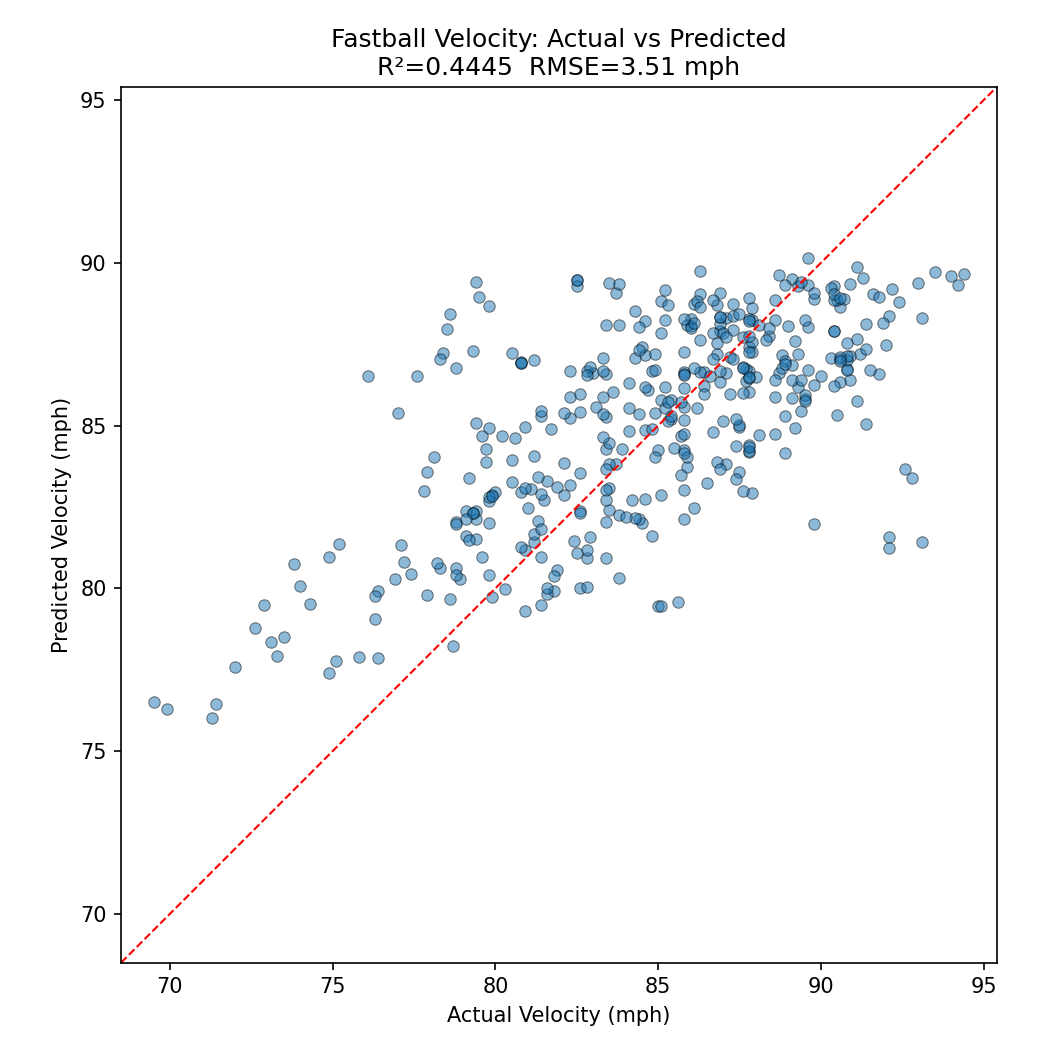
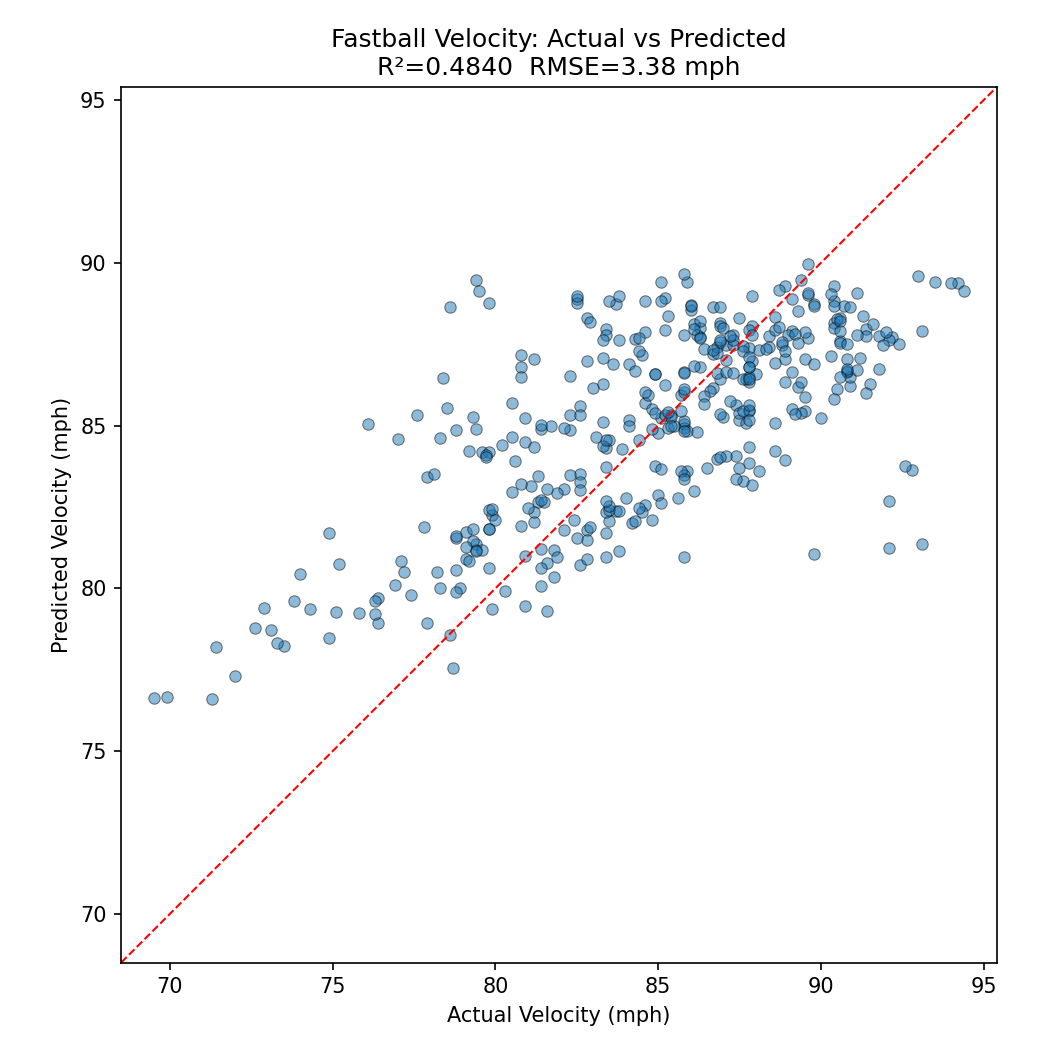
Early stopping, stronger regularization, kinetic chain feature engineering
Added 7 engineered features (energy transfer ratios, GRF asymmetry, moment
ratio). Tuned XGB: LR=0.03, 1000 trees w/ early stop at 50, stronger L1/L2.

Result: {"status":"keep","r2":0.484003,"rmse":3.384725}

diff --git a/train.py b/train.py
@@ -20,15 +20,16 @@ N_FOLDS = 5
 
 # --- Config ---
 XGB_PARAMS = {
-    "n_estimators": 500,
-    "max_depth": 5,
-    "learning_rate": 0.05,
-    "subsample": 0.8,
-    "colsample_bytree": 0.8,
-    "min_child_weight": 3,
-    "reg_alpha": 0.1,
-    "reg_lambda": 1.0,
+    "n_estimators": 1000,
+    "max_depth": 4,
+    "learning_rate": 0.03,
+    "subsample": 0.7,
+    "colsample_bytree": 0.7,
+    "min_child_weight": 5,
+    "reg_alpha": 0.5,
+    "reg_lambda": 2.0,
     "random_state": SEED,
+    "early_stopping_rounds": 50,
 }
 
 DROP_COLS = ["session_pitch", "session", "pitch_type", "pitch_speed_mph"]
@@ -44,6 +45,22 @@ def load_data():
     groups = df[GROUP_COL]
     y = df[TARGET].values
     X = df.drop(columns=DROP_COLS)
+
+    # Feature engineering: kinetic chain ratios
+    eps = 1e-6
+    X["thorax_to_elbow_transfer_ratio"] = X["thorax_distal_transfer_fp_br"] / (X["elbow_transfer_fp_br"] + eps)
+    X["shoulder_to_elbow_transfer_ratio"] = X["shoulder_transfer_fp_br"] / (X["elbow_transfer_fp_br"] + eps)
+    X["pelvis_to_thorax_transfer_ratio"] = X["pelvis_lumbar_transfer_fp_br"] / (X["thorax_distal_transfer_fp_br"] + eps)
+    # Rotational velocity ratios
+    X["torso_to_pelvis_rot_ratio"] = X["max_torso_rotational_velo"] / (X["max_pelvis_rotational_velo"] + eps)
+    # Total energy transfer (kinetic chain sum)
+    X["total_energy_transfer"] = (X["shoulder_transfer_fp_br"] + X["elbow_transfer_fp_br"] +
+                                   X["thorax_distal_transfer_fp_br"] + X["pelvis_lumbar_transfer_fp_br"])
+    # GRF asymmetry
+    X["grf_lead_rear_ratio"] = X["lead_grf_mag_max"] / (X["rear_grf_mag_max"] + eps)
+    # Shoulder-elbow moment ratio
+    X["moment_ratio"] = X["shoulder_internal_rotation_moment"] / (X["elbow_varus_moment"] + eps)
+
     return X, y, groups
 
 
